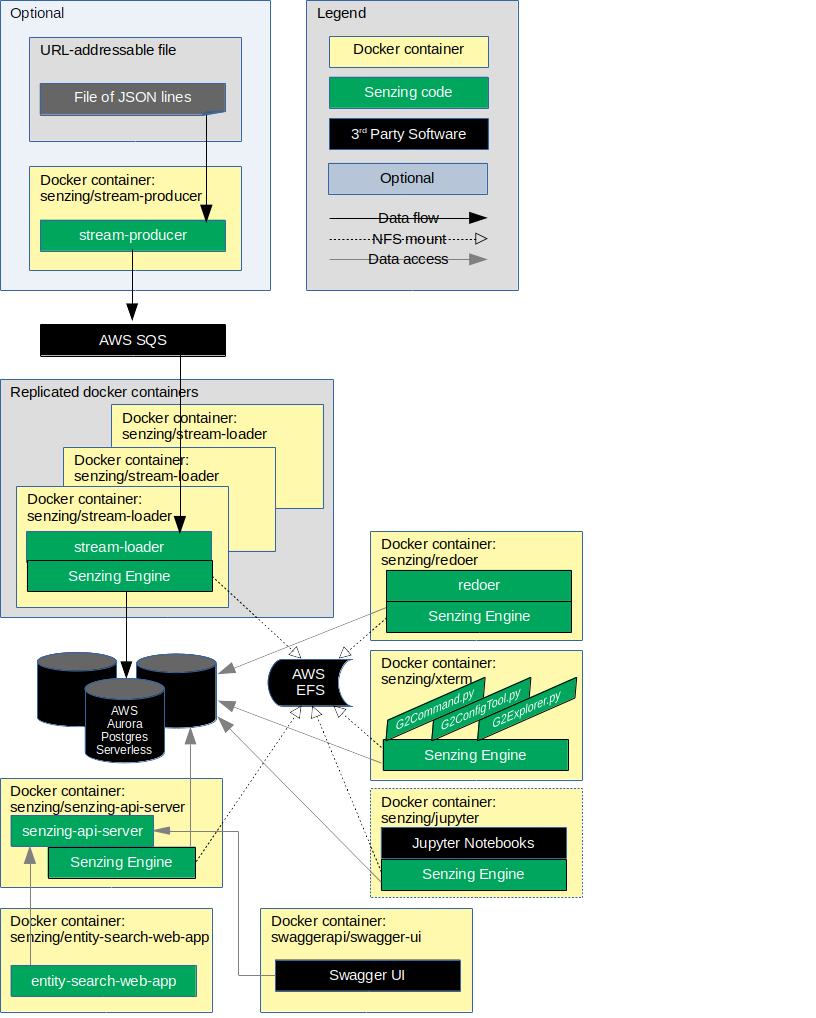
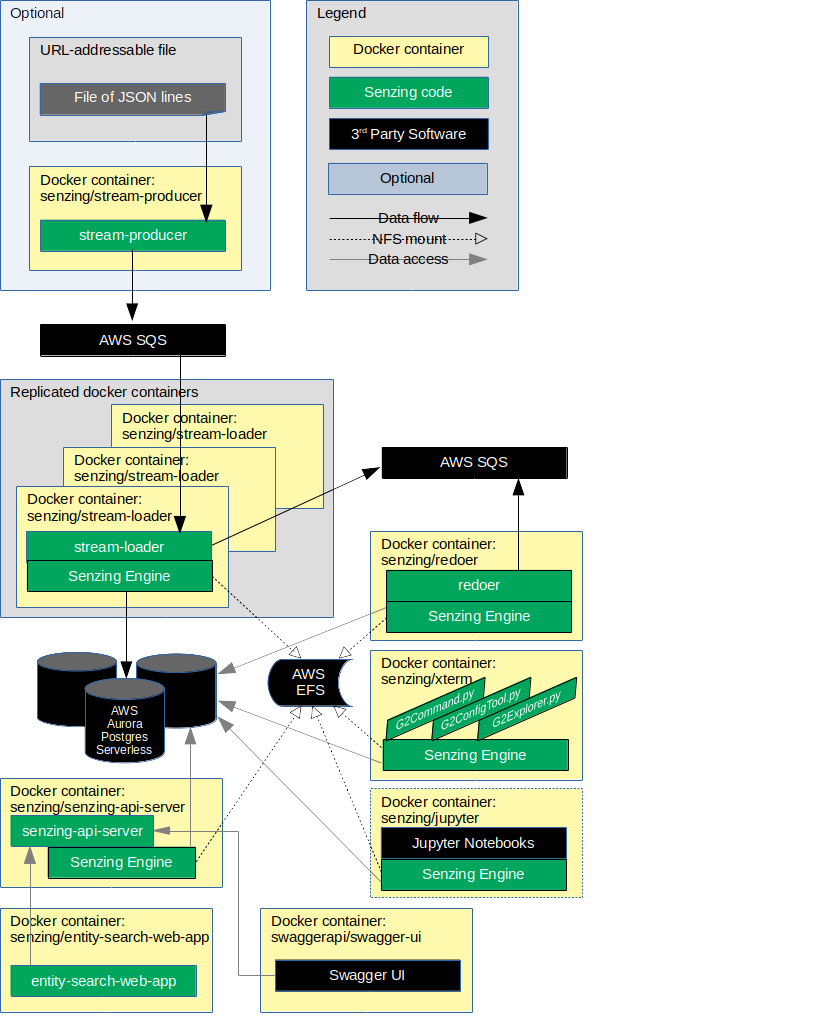
#66 Add output SQS queues

Changed region(s): [[0.4289, 0.4263, 0.7047, 0.4872]]

diff --git a/README.md b/README.md
@@ -54,7 +54,7 @@ to draw attention to this AWS Cloudformation defect.
 1. Click on "Outputs" tab.
 1. Open the "0penFirst" value in a new web browser tab or window.
     1. Because this uses a self-signed certificate, a warning will come up in your browser.  Simply continue.
-    1. In the initial "Sign in with your email and password" dialog box, enter the *UserName* and *UserInitPassword*
+    1. In the "Sign in with your email and password" dialog box, enter the *UserName* and *UserInitPassword*
        values seen in the "Output" tab of the "senzing-poc" stack.  This is a one-time password.
     1. In **Change Password**, enter a new password.
 
